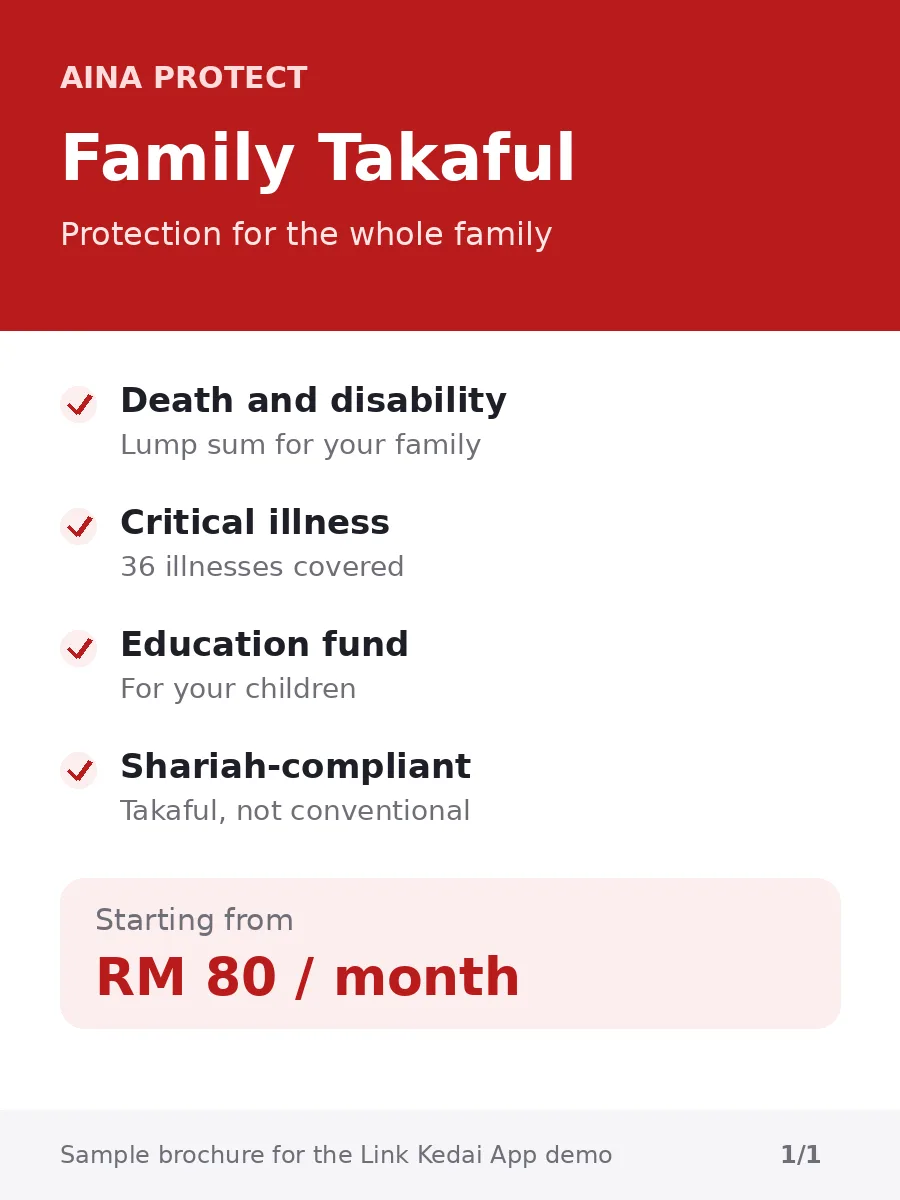
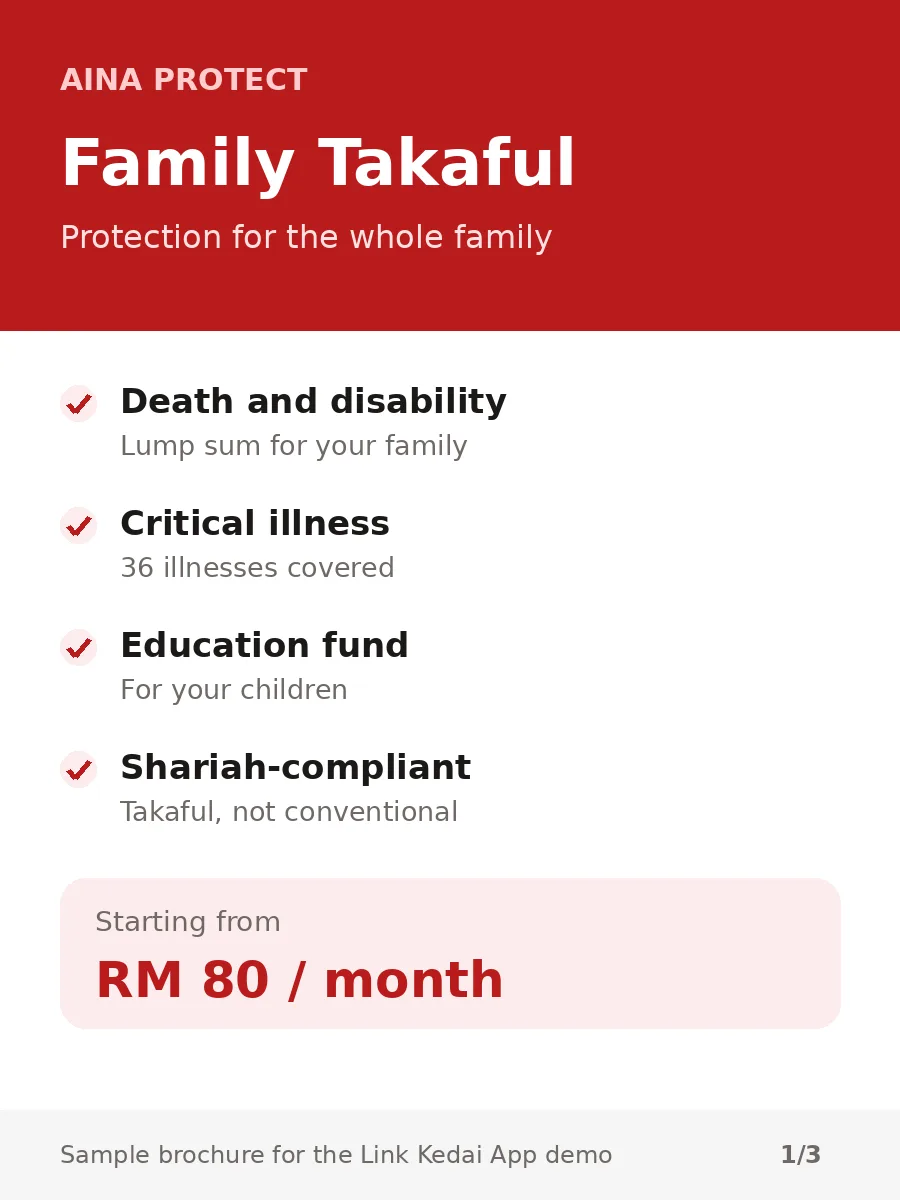
Swipeable pictures: dots and arrows, photo included, fuller demo brochure
- Pictures you swipe through (brochure pages, digital samples) get dots
  and prev/next arrows, so they can be flipped on a computer too and it is
  clear there are more.
- A brochure strip now includes the item photo as well as its pages.
- The Family Takaful demo had one brochure page, so nothing to swipe: it
  now has three (cover, plans, how to join).

Claude-Session: https://claude.ai/code/session_01UJFnisQ1AMpzEvBR8NiAo2

diff --git a/404.html b/404.html
@@ -534,6 +534,13 @@ html.lk-large body:not(.exploring):not(.pinning){zoom:1.14}   /* maps are left a
 .dgstrip{display:flex;overflow-x:auto;scroll-snap-type:x mandatory;gap:10px;padding:14px 14px 16px;scrollbar-width:none}
 .dgstrip::-webkit-scrollbar{display:none}
 .pbig .dgstrip img{flex:none;width:70%;height:auto;aspect-ratio:3/4;object-fit:cover;border-radius:var(--r-sm);scroll-snap-align:center;box-shadow:0 4px 14px rgba(20,10,15,.18)}
+.stripnav{display:flex;align-items:center;justify-content:center;gap:10px;margin:-6px 0 4px}
+.stripnav .snb{width:34px;height:34px;border-radius:50%;border:1px solid var(--line);background:var(--surface);color:var(--ink);display:grid;place-items:center;cursor:pointer;padding:0}
+.stripnav .snb:disabled{opacity:.35;cursor:default}
+.sndots{display:flex;gap:6px}
+.sndots button{width:8px;height:8px;padding:0;border:0;border-radius:999px;background:color-mix(in srgb,var(--ink) 22%,transparent);cursor:pointer;transition:width .2s ease,background-color .2s ease}
+.sndots button[aria-current="true"]{width:20px;background:var(--accent-ink,var(--accent))}
+.sndots button::after{content:"";position:absolute;inset:-10px -3px}.sndots button{position:relative}
 .dgcount{position:absolute;right:14px;bottom:24px;font-size:11.5px;font-weight:700;background:rgba(0,0,0,.55);color:#fff;padding:3px 9px;border-radius:999px;pointer-events:none}
 .dginfo{margin:8px 0 6px}
 .dginfo h3{font-size:15px;margin:14px 0 8px}
@@ -1967,7 +1974,7 @@ const DEMOS = {
     bio: "Licensed agent since 2016. I help families pick the right medical card and takaful. Free policy review, no obligation.", areas: "Kuala Lumpur, Selangor, Online (video call)",
     items: [
       { n: "Medical Card Gold", d: "Hospital and surgery cover", br: [DEMO_IMG("med-1.webp"), DEMO_IMG("med-2.webp"), DEMO_IMG("med-3.webp")], cov: "Room up to RM250 a day\nNo lifetime limit\nCashless at 70+ panel hospitals\nCovers you until age 100", o: [{ l: "", p: 0 }] },
-      { n: "Family Takaful", d: "Protection for the whole family, Shariah-compliant", br: [DEMO_IMG("takaful-1.webp")], cov: "Death and disability\n36 critical illnesses\nEducation fund for your children", o: [{ l: "Basic", p: 0 }, { l: "Plus", p: 0 }] },
+      { n: "Family Takaful", d: "Protection for the whole family, Shariah-compliant", br: [DEMO_IMG("takaful-1.webp"), DEMO_IMG("takaful-2.webp"), DEMO_IMG("takaful-3.webp")], cov: "Death and disability\n36 critical illnesses\nEducation fund for your children", o: [{ l: "Basic", p: 0 }, { l: "Plus", p: 0 }] },
       { n: "Free Policy Review", d: "Show me your current policy and I'll check it for you", o: [{ l: "", p: 0 }] }] } },
   "demo-food": { place: { city: "Shah Alam", state: "Selangor" }, data: { name: "Dapur Kak Yah", tagline: "Homemade nasi lemak, kek & kuih. Order a day ahead", kind: "food", cat: "food", color: "#C2410C", layout: "grid", wa: "60100000000", logo: DEMO_IMG("food-logo.webp"),
     off: { days: [1] },
@@ -2563,6 +2570,7 @@ function renderStart(msg, mode){
 // New Link Kedai App features are announced to sellers automatically from this list.
 // Add a post at the top for every update sellers can see. The bot shows it on their store home and in News.
 const APP_UPDATES = [
+  { id: "u-20261019-swipe-dots", at: "2026-10-19", title: "Easier to flip through pictures", body: "When a product has several pictures, like brochure pages or digital samples, customers now see dots and arrows under them, so they can flip page by page even on a computer. Your item photo is included too." },
   { id: "u-20261019-book-in-details", at: "2026-10-19", title: "Book straight from a service", body: "On services stores, the details of each service now end with your big Book button. Customers read the details, tap it, and the booking sheet opens with that service already picked." },
   { id: "u-20261019-service-details", at: "2026-10-19", title: "Tap a service to see its details", body: "On services stores, tapping a service now shows its details: photos, description and every package with its price. To book, customers use the one big button at the bottom, where they pick the service, date and time." },
   { id: "u-20261019-one-book-button", at: "2026-10-19", title: "One Book button", body: "On services stores, each service no longer has its own small Book button: customers tap the service, or the big button at the bottom. The service they picked still shows Chosen, and plans with a brochure still show View." },
@@ -3386,7 +3394,7 @@ function edSettings(){
   </section>`;
 }
 // The app's version, shown in Settings. Keep it the same as V in sw.js (both go up on every release).
-const APP_VERSION = 121;
+const APP_VERSION = 122;
 let APP_VER = "Version " + APP_VERSION;
 async function appVersion(){ const el = $("appVer"); if (el) el.textContent = APP_VER; }
 async function checkUpdate(){
@@ -4640,7 +4648,7 @@ function openProduct(i){
     const how = p.how === "ext" && safeUrl(p.ext) ? `You pay and download on ${esc(dgSite(p.ext))}.` : `Send your order on WhatsApp and pay the shop. ${p.how === "link" ? "They'll send you the download link" : "They'll send you the file"} on WhatsApp${p.eta ? ", " + esc(p.eta) : ""}.`;
     $("pDg").innerHTML = (p.fmt ? `<span class="dgchip">${esc(p.fmt)}</span>` : "") + (gets.length ? `<h3>What you get</h3><ul class="dgget-list">${gets.map(g => `<li>${ico("check", 15, 2.6)}<span>${esc(g)}</span></li>`).join("")}</ul>` : "") + `<div class="dghowbox">${ico("download", 18, 2)}<span><b>How you get it</b>${how}</span></div>`;
   } else if (isService(D) && hasBrochure(p)){   // a brochure: pages to swipe (tap one to see it full size), what's covered, the PDF
-    const pics = (p.br || []).length ? p.br : [img].filter(Boolean);
+    const pics = [...new Set([img, ...(p.br || [])].filter(Boolean))];   // the photo too, so every picture can be swiped to
     $("pImg").innerHTML = pics.length > 1 ? `<div class="dgstrip brstrip">${pics.map((u, k) => `<a href="${esc(u)}" target="_blank" rel="noopener" aria-label="Open page ${k + 1} full size"><img src="${esc(sized(u, 1200))}" alt="Brochure page ${k + 1}" loading="${k ? "lazy" : "eager"}"></a>`).join("")}</div><span class="dgcount">${pics.length} pages · swipe, tap to zoom</span>` : pics.length ? `<a href="${esc(pics[0])}" target="_blank" rel="noopener" aria-label="Open full size"><img src="${esc(pics[0])}" alt=""></a>` : "";
     $("pImg").hidden = !pics.length; $("pImg").classList.toggle("dgpics", pics.length > 1);
     const cov = String(p.cov || "").split(/\n+/).map(x => x.trim()).filter(Boolean);
@@ -4663,7 +4671,23 @@ function openProduct(i){
     : p.o.map((o,j) => `<label class="optrow"><input type="radio" name="popt" value="${j}" ${j===0?"checked":""}><span class="ol">${esc(o.l || p.n)}</span><span class="pprice">${money(o.p)}</span></label>`).join("");
   $("pOpts").setAttribute("role", sv ? "list" : "radiogroup");
   updateProduct();
+  stripNav($("pImg"));
   openSheet("pOverlay");
+}
+// Pictures you swipe through: dots under them, and arrows (a mouse can't swipe) to go page by page
+function stripNav(box){
+  const old = box.querySelector(".stripnav"); if (old) old.remove();
+  const st = box.querySelector(".dgstrip"); if (!st || st.children.length < 2) return;
+  const n = st.children.length, at = () => { const mid = st.scrollLeft + st.clientWidth / 2; let best = 0, bd = 1e9; [...st.children].forEach((c, k) => { const d = Math.abs(c.offsetLeft + c.offsetWidth / 2 - mid); if (d < bd){ bd = d; best = k; } }); return best; };
+  const go = k => { const c = st.children[Math.max(0, Math.min(n - 1, k))]; st.scrollTo({ left: c.offsetLeft - (st.clientWidth - c.offsetWidth) / 2, behavior: reduceMotion() ? "auto" : "smooth" }); };
+  const nav = document.createElement("div"); nav.className = "stripnav";
+  nav.innerHTML = `<button type="button" class="snb" data-sn="-1" aria-label="Previous picture">${ico("back", 18, 2.4)}</button><span class="sndots">${Array.from({ length: n }, (_, k) => `<button type="button" data-snk="${k}" aria-label="Picture ${k + 1} of ${n}"></button>`).join("")}</span><button type="button" class="snb" data-sn="1" aria-label="Next picture">${ico("chevron", 18, 2.4)}</button>`;
+  st.insertAdjacentElement("afterend", nav);
+  const paint = () => { const k = at(); nav.querySelectorAll("[data-snk]").forEach((d, j) => d.setAttribute("aria-current", String(j === k))); nav.querySelector('[data-sn="-1"]').disabled = k === 0; nav.querySelector('[data-sn="1"]').disabled = k === n - 1; };
+  nav.onclick = e => { const b = e.target.closest("button"); if (!b) return; if (b.dataset.snk != null) go(+b.dataset.snk); else go(at() + +b.dataset.sn); };
+  let t = 0; st.addEventListener("scroll", () => { cancelAnimationFrame(t); t = requestAnimationFrame(paint); }, { passive: true });
+  const cnt = box.querySelector(".dgcount"); if (cnt) cnt.remove();
+  paint();
 }
 function updateProduct(){
   const p = D.items[pSel.i], o = p && p.o[pSel.j]; if (!o) return closeSheet("pOverlay");

diff --git a/index.html b/index.html
@@ -534,6 +534,13 @@ html.lk-large body:not(.exploring):not(.pinning){zoom:1.14}   /* maps are left a
 .dgstrip{display:flex;overflow-x:auto;scroll-snap-type:x mandatory;gap:10px;padding:14px 14px 16px;scrollbar-width:none}
 .dgstrip::-webkit-scrollbar{display:none}
 .pbig .dgstrip img{flex:none;width:70%;height:auto;aspect-ratio:3/4;object-fit:cover;border-radius:var(--r-sm);scroll-snap-align:center;box-shadow:0 4px 14px rgba(20,10,15,.18)}
+.stripnav{display:flex;align-items:center;justify-content:center;gap:10px;margin:-6px 0 4px}
+.stripnav .snb{width:34px;height:34px;border-radius:50%;border:1px solid var(--line);background:var(--surface);color:var(--ink);display:grid;place-items:center;cursor:pointer;padding:0}
+.stripnav .snb:disabled{opacity:.35;cursor:default}
+.sndots{display:flex;gap:6px}
+.sndots button{width:8px;height:8px;padding:0;border:0;border-radius:999px;background:color-mix(in srgb,var(--ink) 22%,transparent);cursor:pointer;transition:width .2s ease,background-color .2s ease}
+.sndots button[aria-current="true"]{width:20px;background:var(--accent-ink,var(--accent))}
+.sndots button::after{content:"";position:absolute;inset:-10px -3px}.sndots button{position:relative}
 .dgcount{position:absolute;right:14px;bottom:24px;font-size:11.5px;font-weight:700;background:rgba(0,0,0,.55);color:#fff;padding:3px 9px;border-radius:999px;pointer-events:none}
 .dginfo{margin:8px 0 6px}
 .dginfo h3{font-size:15px;margin:14px 0 8px}
@@ -1967,7 +1974,7 @@ const DEMOS = {
     bio: "Licensed agent since 2016. I help families pick the right medical card and takaful. Free policy review, no obligation.", areas: "Kuala Lumpur, Selangor, Online (video call)",
     items: [
       { n: "Medical Card Gold", d: "Hospital and surgery cover", br: [DEMO_IMG("med-1.webp"), DEMO_IMG("med-2.webp"), DEMO_IMG("med-3.webp")], cov: "Room up to RM250 a day\nNo lifetime limit\nCashless at 70+ panel hospitals\nCovers you until age 100", o: [{ l: "", p: 0 }] },
-      { n: "Family Takaful", d: "Protection for the whole family, Shariah-compliant", br: [DEMO_IMG("takaful-1.webp")], cov: "Death and disability\n36 critical illnesses\nEducation fund for your children", o: [{ l: "Basic", p: 0 }, { l: "Plus", p: 0 }] },
+      { n: "Family Takaful", d: "Protection for the whole family, Shariah-compliant", br: [DEMO_IMG("takaful-1.webp"), DEMO_IMG("takaful-2.webp"), DEMO_IMG("takaful-3.webp")], cov: "Death and disability\n36 critical illnesses\nEducation fund for your children", o: [{ l: "Basic", p: 0 }, { l: "Plus", p: 0 }] },
       { n: "Free Policy Review", d: "Show me your current policy and I'll check it for you", o: [{ l: "", p: 0 }] }] } },
   "demo-food": { place: { city: "Shah Alam", state: "Selangor" }, data: { name: "Dapur Kak Yah", tagline: "Homemade nasi lemak, kek & kuih. Order a day ahead", kind: "food", cat: "food", color: "#C2410C", layout: "grid", wa: "60100000000", logo: DEMO_IMG("food-logo.webp"),
     off: { days: [1] },
@@ -2563,6 +2570,7 @@ function renderStart(msg, mode){
 // New Link Kedai App features are announced to sellers automatically from this list.
 // Add a post at the top for every update sellers can see. The bot shows it on their store home and in News.
 const APP_UPDATES = [
+  { id: "u-20261019-swipe-dots", at: "2026-10-19", title: "Easier to flip through pictures", body: "When a product has several pictures, like brochure pages or digital samples, customers now see dots and arrows under them, so they can flip page by page even on a computer. Your item photo is included too." },
   { id: "u-20261019-book-in-details", at: "2026-10-19", title: "Book straight from a service", body: "On services stores, the details of each service now end with your big Book button. Customers read the details, tap it, and the booking sheet opens with that service already picked." },
   { id: "u-20261019-service-details", at: "2026-10-19", title: "Tap a service to see its details", body: "On services stores, tapping a service now shows its details: photos, description and every package with its price. To book, customers use the one big button at the bottom, where they pick the service, date and time." },
   { id: "u-20261019-one-book-button", at: "2026-10-19", title: "One Book button", body: "On services stores, each service no longer has its own small Book button: customers tap the service, or the big button at the bottom. The service they picked still shows Chosen, and plans with a brochure still show View." },
@@ -3386,7 +3394,7 @@ function edSettings(){
   </section>`;
 }
 // The app's version, shown in Settings. Keep it the same as V in sw.js (both go up on every release).
-const APP_VERSION = 121;
+const APP_VERSION = 122;
 let APP_VER = "Version " + APP_VERSION;
 async function appVersion(){ const el = $("appVer"); if (el) el.textContent = APP_VER; }
 async function checkUpdate(){
@@ -4640,7 +4648,7 @@ function openProduct(i){
     const how = p.how === "ext" && safeUrl(p.ext) ? `You pay and download on ${esc(dgSite(p.ext))}.` : `Send your order on WhatsApp and pay the shop. ${p.how === "link" ? "They'll send you the download link" : "They'll send you the file"} on WhatsApp${p.eta ? ", " + esc(p.eta) : ""}.`;
     $("pDg").innerHTML = (p.fmt ? `<span class="dgchip">${esc(p.fmt)}</span>` : "") + (gets.length ? `<h3>What you get</h3><ul class="dgget-list">${gets.map(g => `<li>${ico("check", 15, 2.6)}<span>${esc(g)}</span></li>`).join("")}</ul>` : "") + `<div class="dghowbox">${ico("download", 18, 2)}<span><b>How you get it</b>${how}</span></div>`;
   } else if (isService(D) && hasBrochure(p)){   // a brochure: pages to swipe (tap one to see it full size), what's covered, the PDF
-    const pics = (p.br || []).length ? p.br : [img].filter(Boolean);
+    const pics = [...new Set([img, ...(p.br || [])].filter(Boolean))];   // the photo too, so every picture can be swiped to
     $("pImg").innerHTML = pics.length > 1 ? `<div class="dgstrip brstrip">${pics.map((u, k) => `<a href="${esc(u)}" target="_blank" rel="noopener" aria-label="Open page ${k + 1} full size"><img src="${esc(sized(u, 1200))}" alt="Brochure page ${k + 1}" loading="${k ? "lazy" : "eager"}"></a>`).join("")}</div><span class="dgcount">${pics.length} pages · swipe, tap to zoom</span>` : pics.length ? `<a href="${esc(pics[0])}" target="_blank" rel="noopener" aria-label="Open full size"><img src="${esc(pics[0])}" alt=""></a>` : "";
     $("pImg").hidden = !pics.length; $("pImg").classList.toggle("dgpics", pics.length > 1);
     const cov = String(p.cov || "").split(/\n+/).map(x => x.trim()).filter(Boolean);
@@ -4663,7 +4671,23 @@ function openProduct(i){
     : p.o.map((o,j) => `<label class="optrow"><input type="radio" name="popt" value="${j}" ${j===0?"checked":""}><span class="ol">${esc(o.l || p.n)}</span><span class="pprice">${money(o.p)}</span></label>`).join("");
   $("pOpts").setAttribute("role", sv ? "list" : "radiogroup");
   updateProduct();
+  stripNav($("pImg"));
   openSheet("pOverlay");
+}
+// Pictures you swipe through: dots under them, and arrows (a mouse can't swipe) to go page by page
+function stripNav(box){
+  const old = box.querySelector(".stripnav"); if (old) old.remove();
+  const st = box.querySelector(".dgstrip"); if (!st || st.children.length < 2) return;
+  const n = st.children.length, at = () => { const mid = st.scrollLeft + st.clientWidth / 2; let best = 0, bd = 1e9; [...st.children].forEach((c, k) => { const d = Math.abs(c.offsetLeft + c.offsetWidth / 2 - mid); if (d < bd){ bd = d; best = k; } }); return best; };
+  const go = k => { const c = st.children[Math.max(0, Math.min(n - 1, k))]; st.scrollTo({ left: c.offsetLeft - (st.clientWidth - c.offsetWidth) / 2, behavior: reduceMotion() ? "auto" : "smooth" }); };
+  const nav = document.createElement("div"); nav.className = "stripnav";
+  nav.innerHTML = `<button type="button" class="snb" data-sn="-1" aria-label="Previous picture">${ico("back", 18, 2.4)}</button><span class="sndots">${Array.from({ length: n }, (_, k) => `<button type="button" data-snk="${k}" aria-label="Picture ${k + 1} of ${n}"></button>`).join("")}</span><button type="button" class="snb" data-sn="1" aria-label="Next picture">${ico("chevron", 18, 2.4)}</button>`;
+  st.insertAdjacentElement("afterend", nav);
+  const paint = () => { const k = at(); nav.querySelectorAll("[data-snk]").forEach((d, j) => d.setAttribute("aria-current", String(j === k))); nav.querySelector('[data-sn="-1"]').disabled = k === 0; nav.querySelector('[data-sn="1"]').disabled = k === n - 1; };
+  nav.onclick = e => { const b = e.target.closest("button"); if (!b) return; if (b.dataset.snk != null) go(+b.dataset.snk); else go(at() + +b.dataset.sn); };
+  let t = 0; st.addEventListener("scroll", () => { cancelAnimationFrame(t); t = requestAnimationFrame(paint); }, { passive: true });
+  const cnt = box.querySelector(".dgcount"); if (cnt) cnt.remove();
+  paint();
 }
 function updateProduct(){
   const p = D.items[pSel.i], o = p && p.o[pSel.j]; if (!o) return closeSheet("pOverlay");

diff --git a/sw.js b/sw.js
@@ -1,6 +1,6 @@
 // Link Kedai App helper: opens fast and shows a friendly page when offline.
 // Pages, the manifest and the icons are always fetched fresh first, so updates arrive straight away.
-const V = "linkedai-v121";
+const V = "linkedai-v122";
 // Only what the app needs to open offline (the splash logo and loader logo included). Big icons and shortcut pictures
 // are fetched when the phone asks for them, so a first visit doesn't download them all over a slow connection.
 const SHELL = ["./index.html", "./manifest.webmanifest", "./icon-192.png", "./favicon.png", "./logo.png", "./logo-white.png", "./bot.jpg", "./train-nose.svg"];
